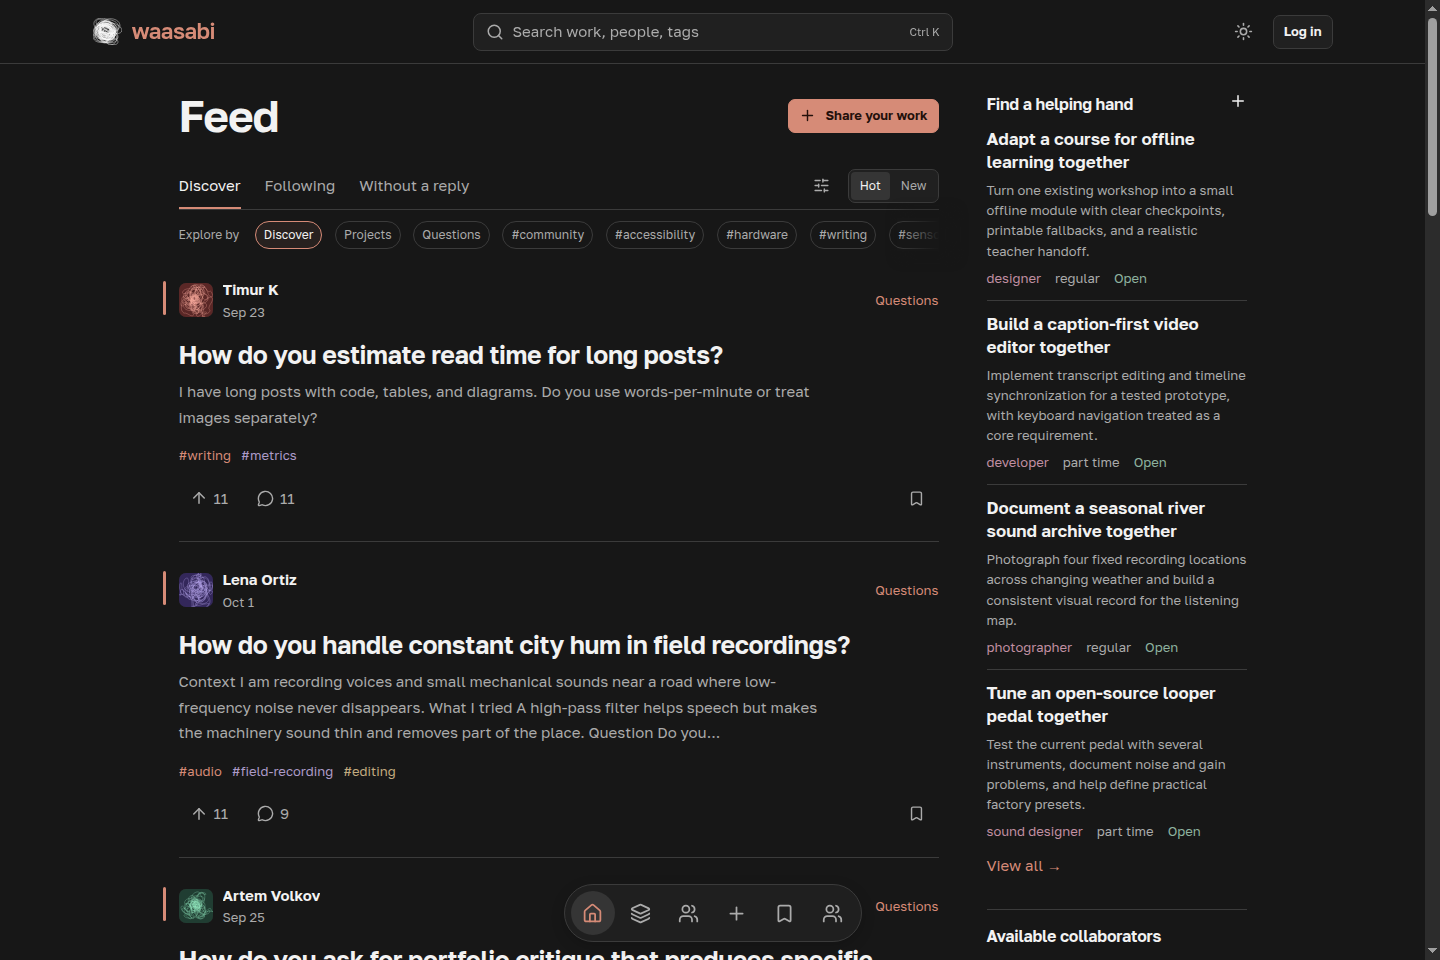
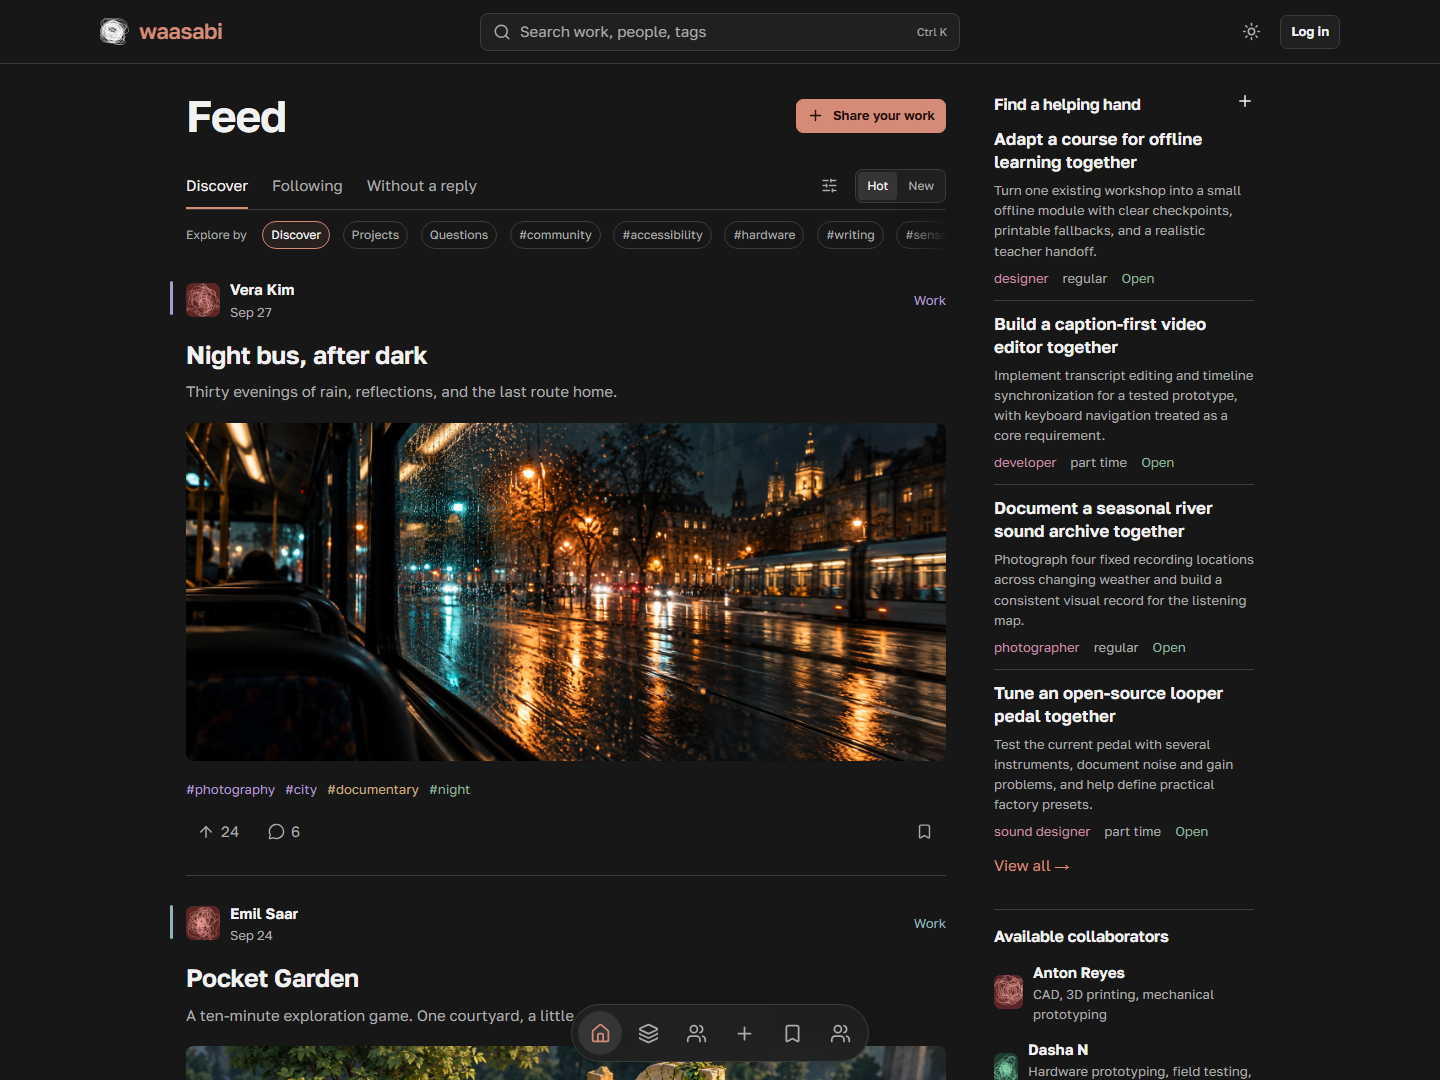
docs: publish README screenshots and capture workflow

diff --git a/database/seeders/ReadmeScreenshotSeeder.php b/database/seeders/ReadmeScreenshotSeeder.php
@@ -1,0 +1,58 @@
+<?php
+
+namespace Database\Seeders;
+
+use App\Models\Post;
+use App\Models\ProjectUpdate;
+use App\Models\User;
+use Illuminate\Database\Seeder;
+
+class ReadmeScreenshotSeeder extends Seeder
+{
+    public function run(): void
+    {
+        $this->call(WaasabiDemoSeeder::class);
+
+        $posts = [
+            ['night-bus-photo-essay', 'vera-kim', 'Night bus, after dark',
+                'Thirty evenings of rain, reflections, and the last route home.', 'night-bus'],
+            ['procedural-moss-game', 'emil-saar', 'Pocket Garden',
+                'A ten-minute exploration game. One courtyard, a little moss, and room to wander.', 'pocket-garden'],
+            ['open-source-looper-pedal', 'maja-lind', 'Loop: a repairable looper',
+                'An open-source music pedal with common parts and controls you can feel.', 'looper'],
+        ];
+
+        $users = User::query()->where('is_banned', false)->get();
+        foreach ($posts as $index => [$slug, $authorSlug, $title, $subtitle, $artwork]) {
+            $author = $users->firstWhere('slug', $authorSlug);
+            $post = Post::query()->where('slug', $slug)->firstOrFail();
+            $cover = '/images/readme/'.$artwork.'.jpg';
+            $post->update([
+                'user_id' => $author->id,
+                'is_project' => $artwork === 'looper',
+                'title' => $title,
+                'subtitle' => $subtitle,
+                'cover_url' => $cover,
+                'album_urls' => [],
+                'feedback_mode' => 'feedback',
+                'activity_at' => now()->subMinutes($index),
+            ]);
+            $post->forceFill(['created_at' => $post->published_at])->saveQuietly();
+            $post->upvoters()->sync($users->where('id', '!=', $author->id)->take(24 - $index * 3)->pluck('id'));
+            $author->update([
+                'featured_post_id' => $post->id,
+                'banner_url' => $cover,
+                'headline' => ['Documentary photographer', 'Independent game developer', 'Sound designer and hardware maker'][$index],
+            ]);
+            $author->showcaseProjects()->sync([$post->id => ['position' => 0]]);
+
+            if ($post->is_project) {
+                ProjectUpdate::updateOrCreate(['post_id' => $post->id, 'title' => 'First playable prototype'], [
+                    'user_id' => $author->id,
+                    'body' => "![The assembled looper prototype]({$cover})\n\nThe first enclosure is assembled. Four pads control record, play, overdub, and undo.\n\nNext: test the controls with musicians and publish the enclosure files.",
+                    'is_hidden' => false,
+                ]);
+            }
+        }
+    }
+}

diff --git a/docs/screenshots/artwork-prompts.md b/docs/screenshots/artwork-prompts.md
@@ -1,0 +1,16 @@
+# Sample post artwork
+
+The README shows demonstration posts from a separate database.
+The built-in imagegen tool created these covers. The interface images are captures of the running application.
+
+## night-bus
+
+Use case: photorealistic-natural. Asset type: panoramic cover for a demonstration photography post in a creative community README, not an interface screenshot. Primary request: a striking, believable documentary photograph through a city bus window late at night, rain beads on glass, blurred amber streetlights and cool teal reflections, a passing illuminated tram at the far side, subtle analog film grain. Wide cinematic 21:9 horizontal composition, 1800x800 if possible. Quiet urban atmosphere, strong composition, deep charcoal shadows with warm copper highlights. No text, no brands, no watermark, no UI, no collage, no faces in focus.
+
+## pocket-garden
+
+Use case: stylized-concept. Asset type: panoramic cover artwork for a demonstration indie game post in a creative community README, not an interface screenshot. Primary request: a polished isometric indie game environment: one small overgrown stone courtyard suspended as a diorama, moss-covered steps, fern patches, a tiny weathered archway, little glowing pale flowers. Handmade low-poly forms with detailed soft textures, rendered like an independent game's art portfolio. Sage and vivid leafy greens, warm pale stone, quiet peach highlights, dark forest background. Wide cinematic 21:9 horizontal composition, 1800x800 if possible. Beautiful readable silhouette and material detail. No text, no UI, no watermarks, no characters, no collage.
+
+## looper
+
+Use case: product-mockup. Asset type: panoramic cover for a demonstration open-source music hardware project in a creative community README, not an interface screenshot. Primary request: a carefully made prototype audio looper pedal on a dark studio workbench, brushed aluminum rectangular enclosure, four large tactile amber-orange pads, two black rotary knobs, exposed tiny screws, an audio cable trailing away, printed circuit board and screwdriver slightly out of focus nearby. Side angle close-up with tangible materials and soft directional studio light. Charcoal, silver, copper and orange, restrained realistic industrial design. Wide cinematic 21:9 horizontal composition, 1800x800 if possible. No labels or text, no brands, no watermarks, no UI, no collage.
